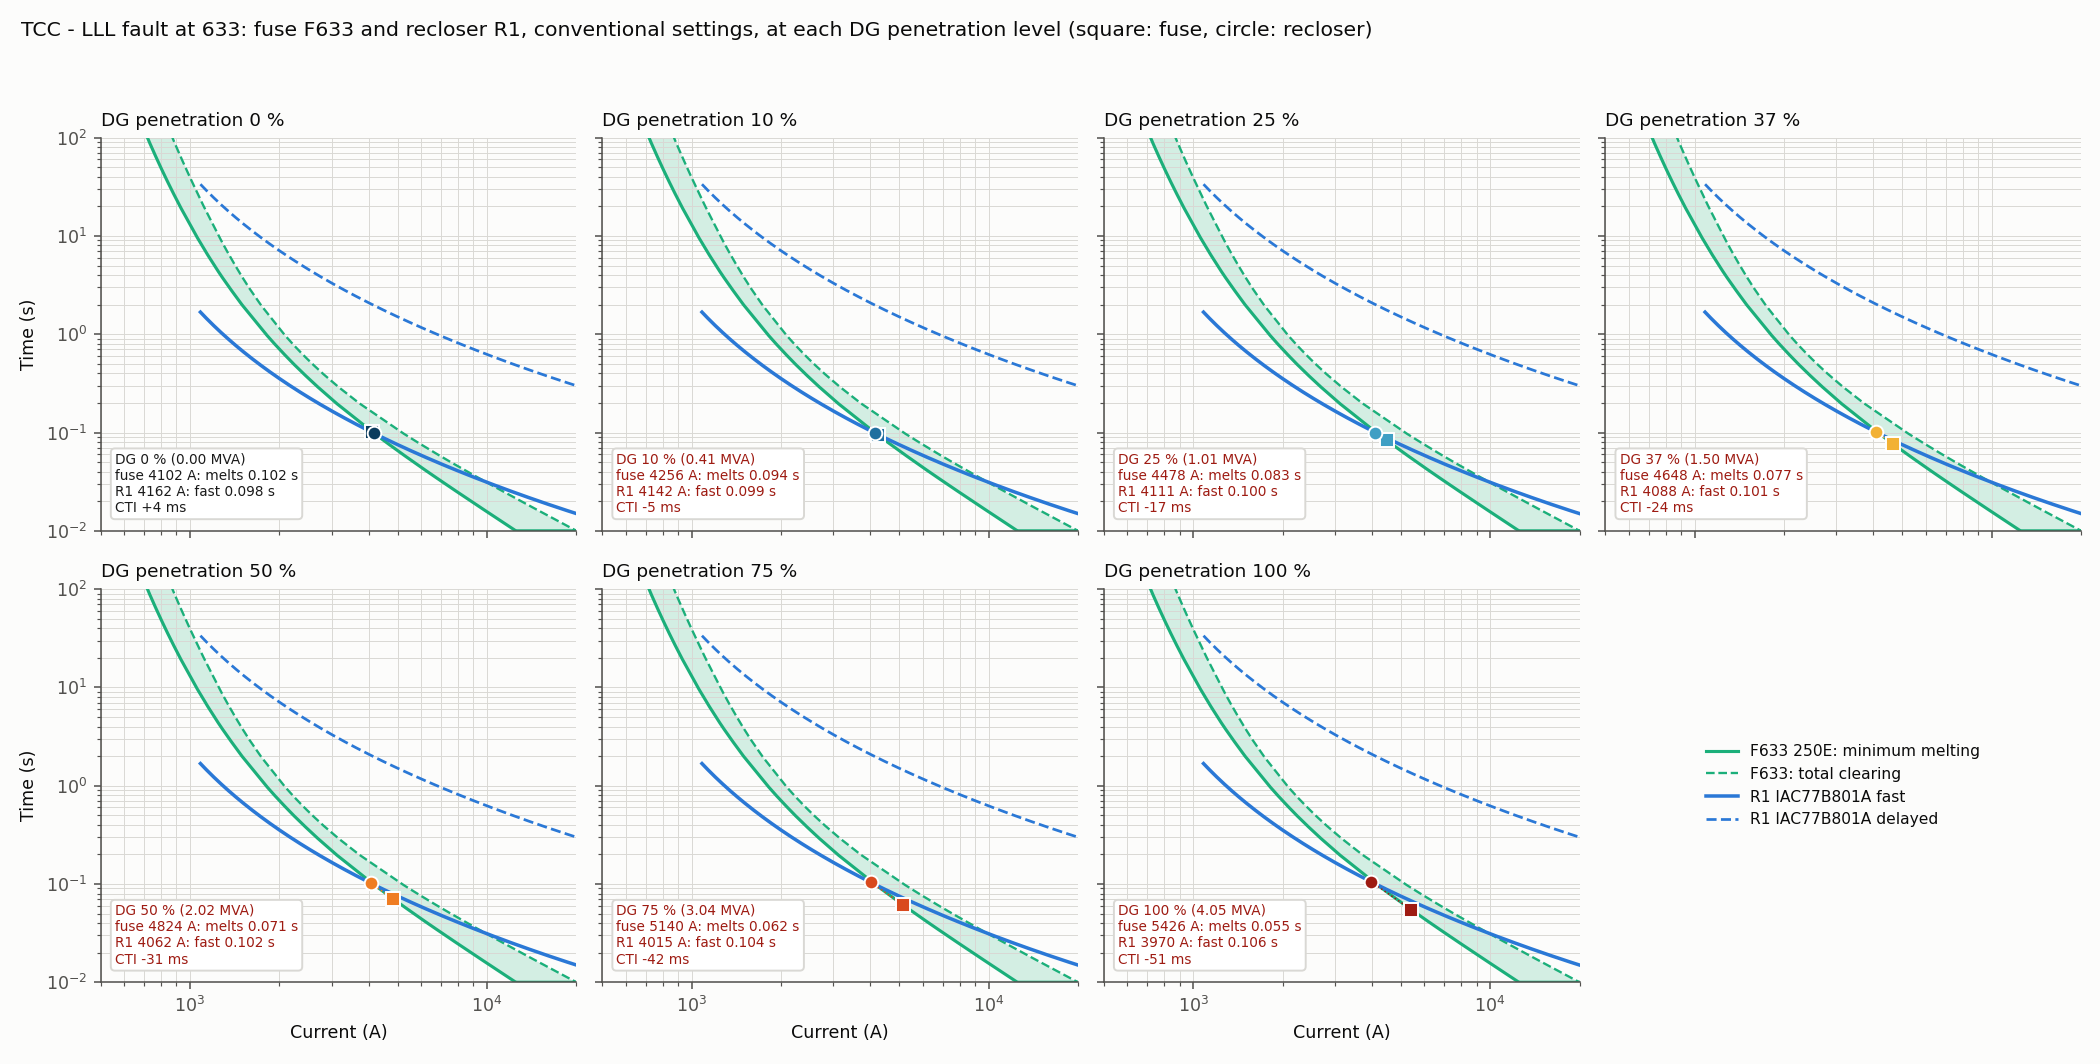
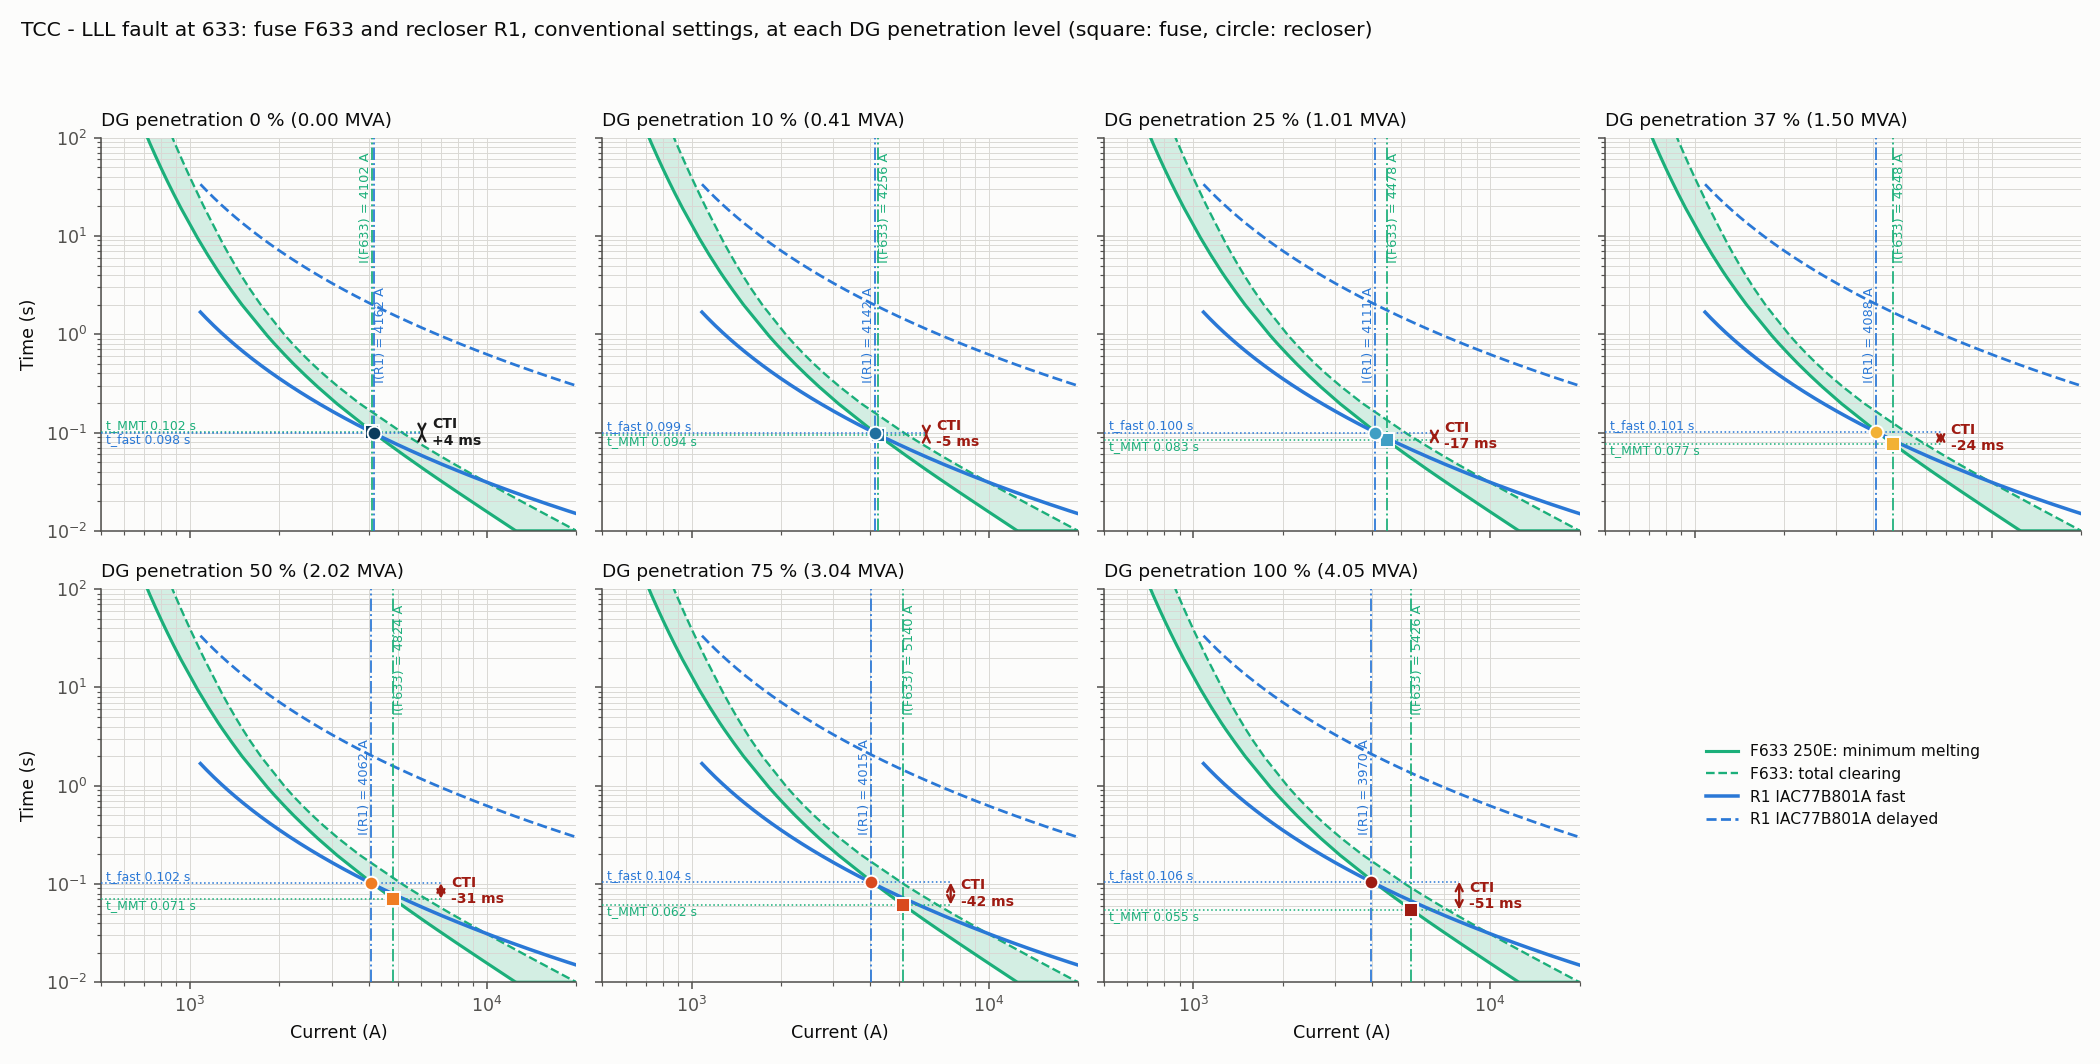
Penetration TCC: vertical short-circuit lines, operating times and CTI on every panel

diff --git a/Penetration_Study/tcc_penetration.py b/Penetration_Study/tcc_penetration.py
@@ -66,13 +66,28 @@ def draw(ax, node, levels, legend=True, compact=False):
         t_f, t_r = f["t_fuse_MMT"], f["t_rec_fast"]
         ax.plot([i_f], [t_f], marker="s", ms=7, color=col, mec="white", mew=1.0, zorder=6)
         ax.plot([i_r], [t_r], marker="o", ms=7, color=col, mec="white", mew=1.0, zorder=6)
-        ax.plot([i_r, i_f], [t_r, t_f], color=col, lw=0.8, ls=":", zorder=5)
+        # vertical short-circuit lines: the fuse and the recloser carry different currents with the DG
+        ax.axvline(i_f, color=FUSEC if compact else col, lw=1.0 if compact else 0.6, ls="-." if compact else ":", alpha=0.9, zorder=3)
+        ax.axvline(i_r, color=BLUE if compact else col, lw=1.0 if compact else 0.6, ls="-." if compact else ":", alpha=0.9, zorder=3)
         if compact:
-            ax.text(0.03, 0.04, "DG %d %% (%.2f MVA)\nfuse %.0f A: melts %.3f s\n%s %.0f A: fast %.3f s\nCTI %+.0f ms" % (
-                p, 4.05 * p / 100, i_f, t_f, c["rec"], i_r, t_r, 1000 * (t_f - t_r)),
-                transform=ax.transAxes, fontsize=7, va="bottom",
-                bbox=dict(boxstyle="round,pad=0.3", fc="white", ec=GRID),
-                color="#9e1b12" if t_f < t_r else "#1a1a1a")
+            # operating times read off on the time axis, and the CTI between them
+            xa = max(i_f, i_r) * 1.45
+            for t_, c_, lab in ((t_f, FUSEC, "t_MMT"), (t_r, BLUE, "t_fast")):
+                ax.plot([500, xa], [t_, t_], color=c_, lw=0.8, ls=":", zorder=3)
+                ax.text(520, t_, "%s %.3f s" % (lab, t_), fontsize=6.4, color=c_,
+                        va="bottom" if t_ >= max(t_f, t_r) else "top")
+            col_cti = "#9e1b12" if t_f < t_r else "#1a1a1a"
+            ax.annotate("", xy=(xa, t_f), xytext=(xa, t_r),
+                        arrowprops=dict(arrowstyle="<->", color=col_cti, lw=1.2, shrinkA=0, shrinkB=0), zorder=7)
+            ax.text(xa * 1.08, (t_f * t_r) ** 0.5, "CTI\n%+.0f ms" % (1000 * (t_f - t_r)), fontsize=7.2, va="center",
+                    fontweight="bold", color=col_cti)
+            # labels of the two vertical lines, staggered so that they do not overlap when the currents are close
+            ax.text(i_f, 70, " I(%s) = %.0f A" % (c["fuse"], i_f), rotation=90, fontsize=6.6, color=FUSEC, va="top",
+                    ha="right" if i_f < i_r else "left")
+            ax.text(i_r, 3.0, " I(%s) = %.0f A" % (c["rec"], i_r), rotation=90, fontsize=6.6, color=BLUE, va="top",
+                    ha="left" if i_f < i_r else "right")
+        else:
+            ax.plot([i_r, i_f], [t_r, t_f], color=col, lw=0.8, ls=":", zorder=5)
     ax.set_xscale("log")
     ax.set_yscale("log")
     ax.set_xlim(500, 20000 if node == "633" else 12000)
@@ -111,7 +126,7 @@ for node in ("633", "671"):
             ax.legend(h, l, loc="center", fontsize=8, frameon=False)
             continue
         draw(ax, node, [P[k]], legend=False, compact=True)
-        ax.set_title("DG penetration %d %%" % P[k], fontsize=9.5, loc="left")
+        ax.set_title("DG penetration %d %% (%.2f MVA)" % (P[k], 4.05 * P[k] / 100), fontsize=9.5, loc="left")
     for ax in axes[1]:
         ax.set_xlabel("Current (A)")
     for ax in axes[:, 0]:
